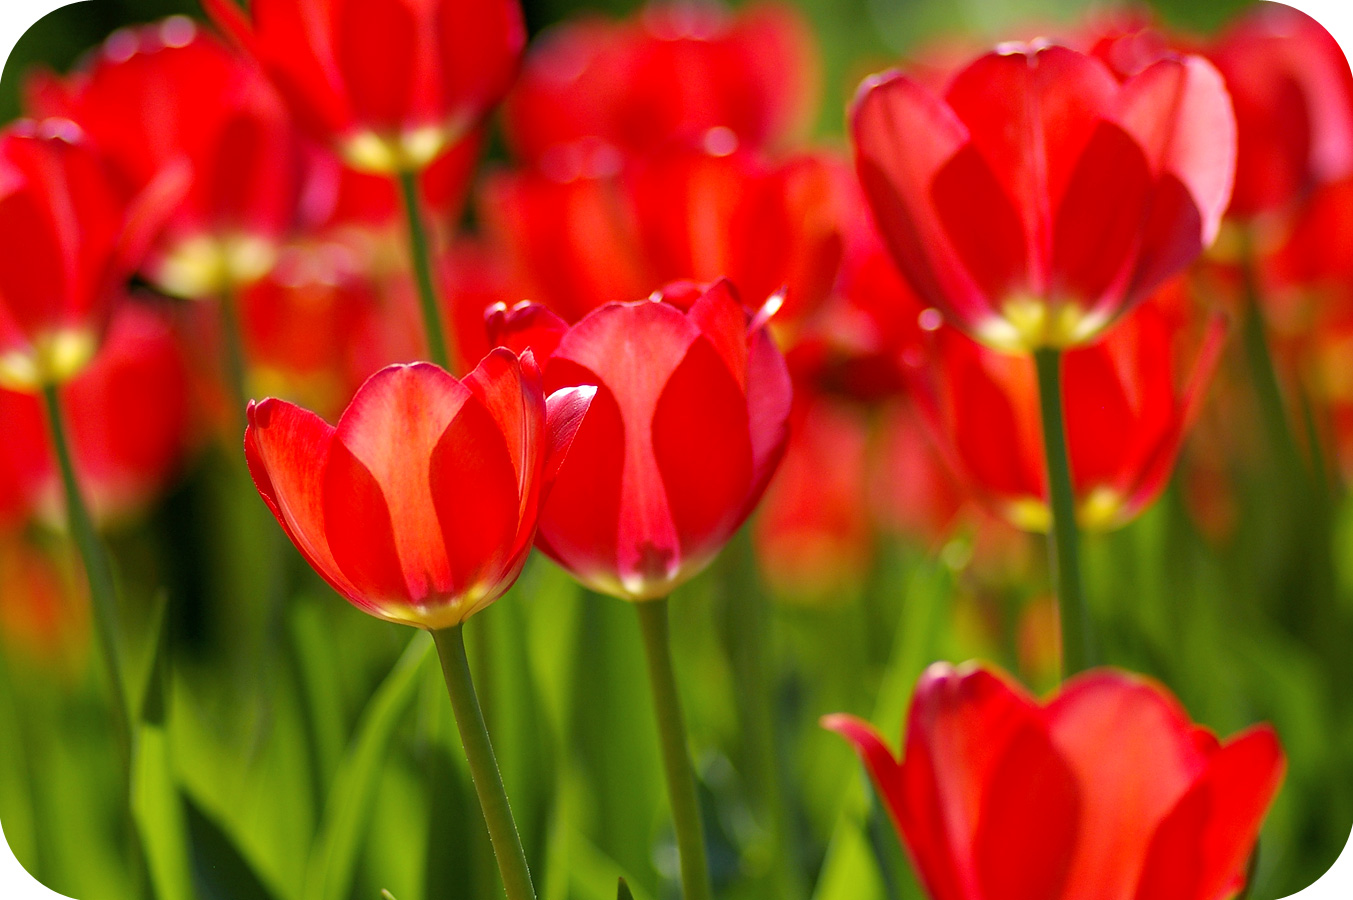
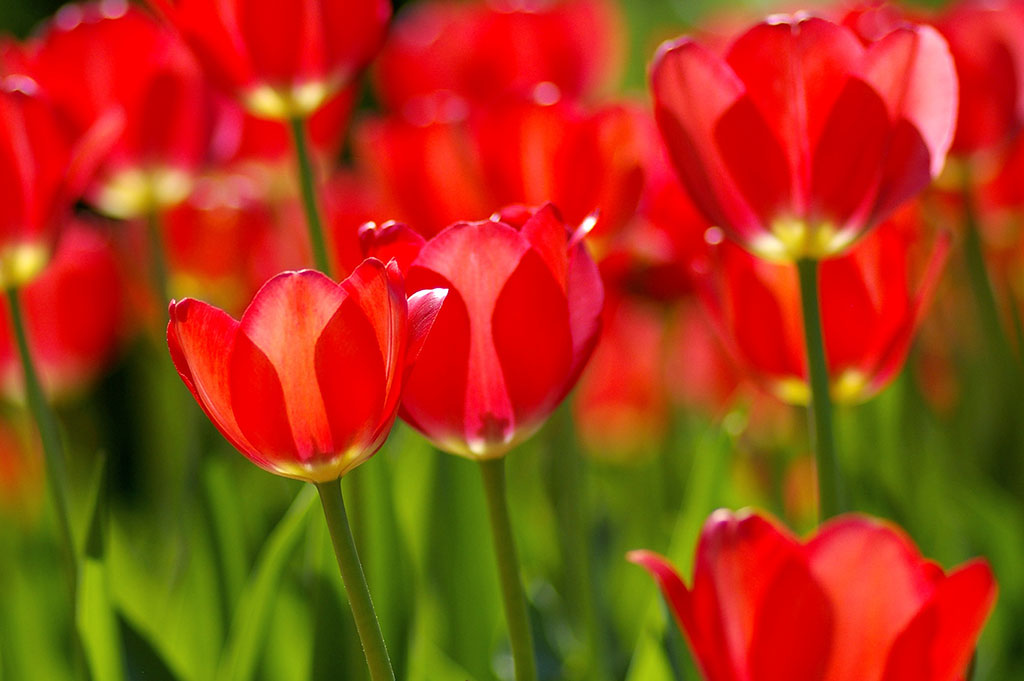
Update images

diff --git a/index.html b/index.html
@@ -2870,9 +2870,9 @@ svg {
             <image xlink:href="./assets/img/parts/wood.jpg" width="300" height="300"/>
         </pattern>
 
-        <pattern id="pt-tulips" width="800" height="532"
+        <pattern id="pt-tulips" width="1024" height="681"
              patternUnits="userSpaceOnUse">
-            <image xlink:href="./assets/img/parts/tulips-800.jpeg" width="800" height="532"/>
+            <image xlink:href="./assets/img/parts/tulips.jpeg" width="1024" height="681"/>
         </pattern>
     </svg>
 
@@ -4822,6 +4822,7 @@ stroke-dasharray: 50 30 20 10;</textarea>
     <script src="./assets/js/live-edit.js"></script>
     <script src="assets/js/snap.svg-min.js"></script>
     <script src="assets/js/intro.js"></script>
+    <script src="assets/js/afterword.js"></script>
 
     <script src="//localhost:35731/livereload.js"></script>
     <!-- Copyright © 2014 yoksel. -->

diff --git a/index-src.html b/index-src.html
@@ -35,9 +35,9 @@
             <image xlink:href="./assets/img/parts/wood.jpg" width="300" height="300"/>
         </pattern>
 
-        <pattern id="pt-tulips" width="800" height="532"
+        <pattern id="pt-tulips" width="1024" height="681"
              patternUnits="userSpaceOnUse">
-            <image xlink:href="./assets/img/parts/tulips-800.jpeg" width="800" height="532"/>
+            <image xlink:href="./assets/img/parts/tulips.jpeg" width="1024" height="681"/>
         </pattern>
     </svg>
 
@@ -1987,6 +1987,7 @@ stroke-dasharray: 50 30 20 10;</textarea>
     <script src="./assets/js/live-edit.js"></script>
     <script src="assets/js/snap.svg-min.js"></script>
     <script src="assets/js/intro.js"></script>
+    <script src="assets/js/afterword.js"></script>
 
     <script src="//localhost:35731/livereload.js"></script>
     <!-- Copyright © 2014 yoksel. -->
